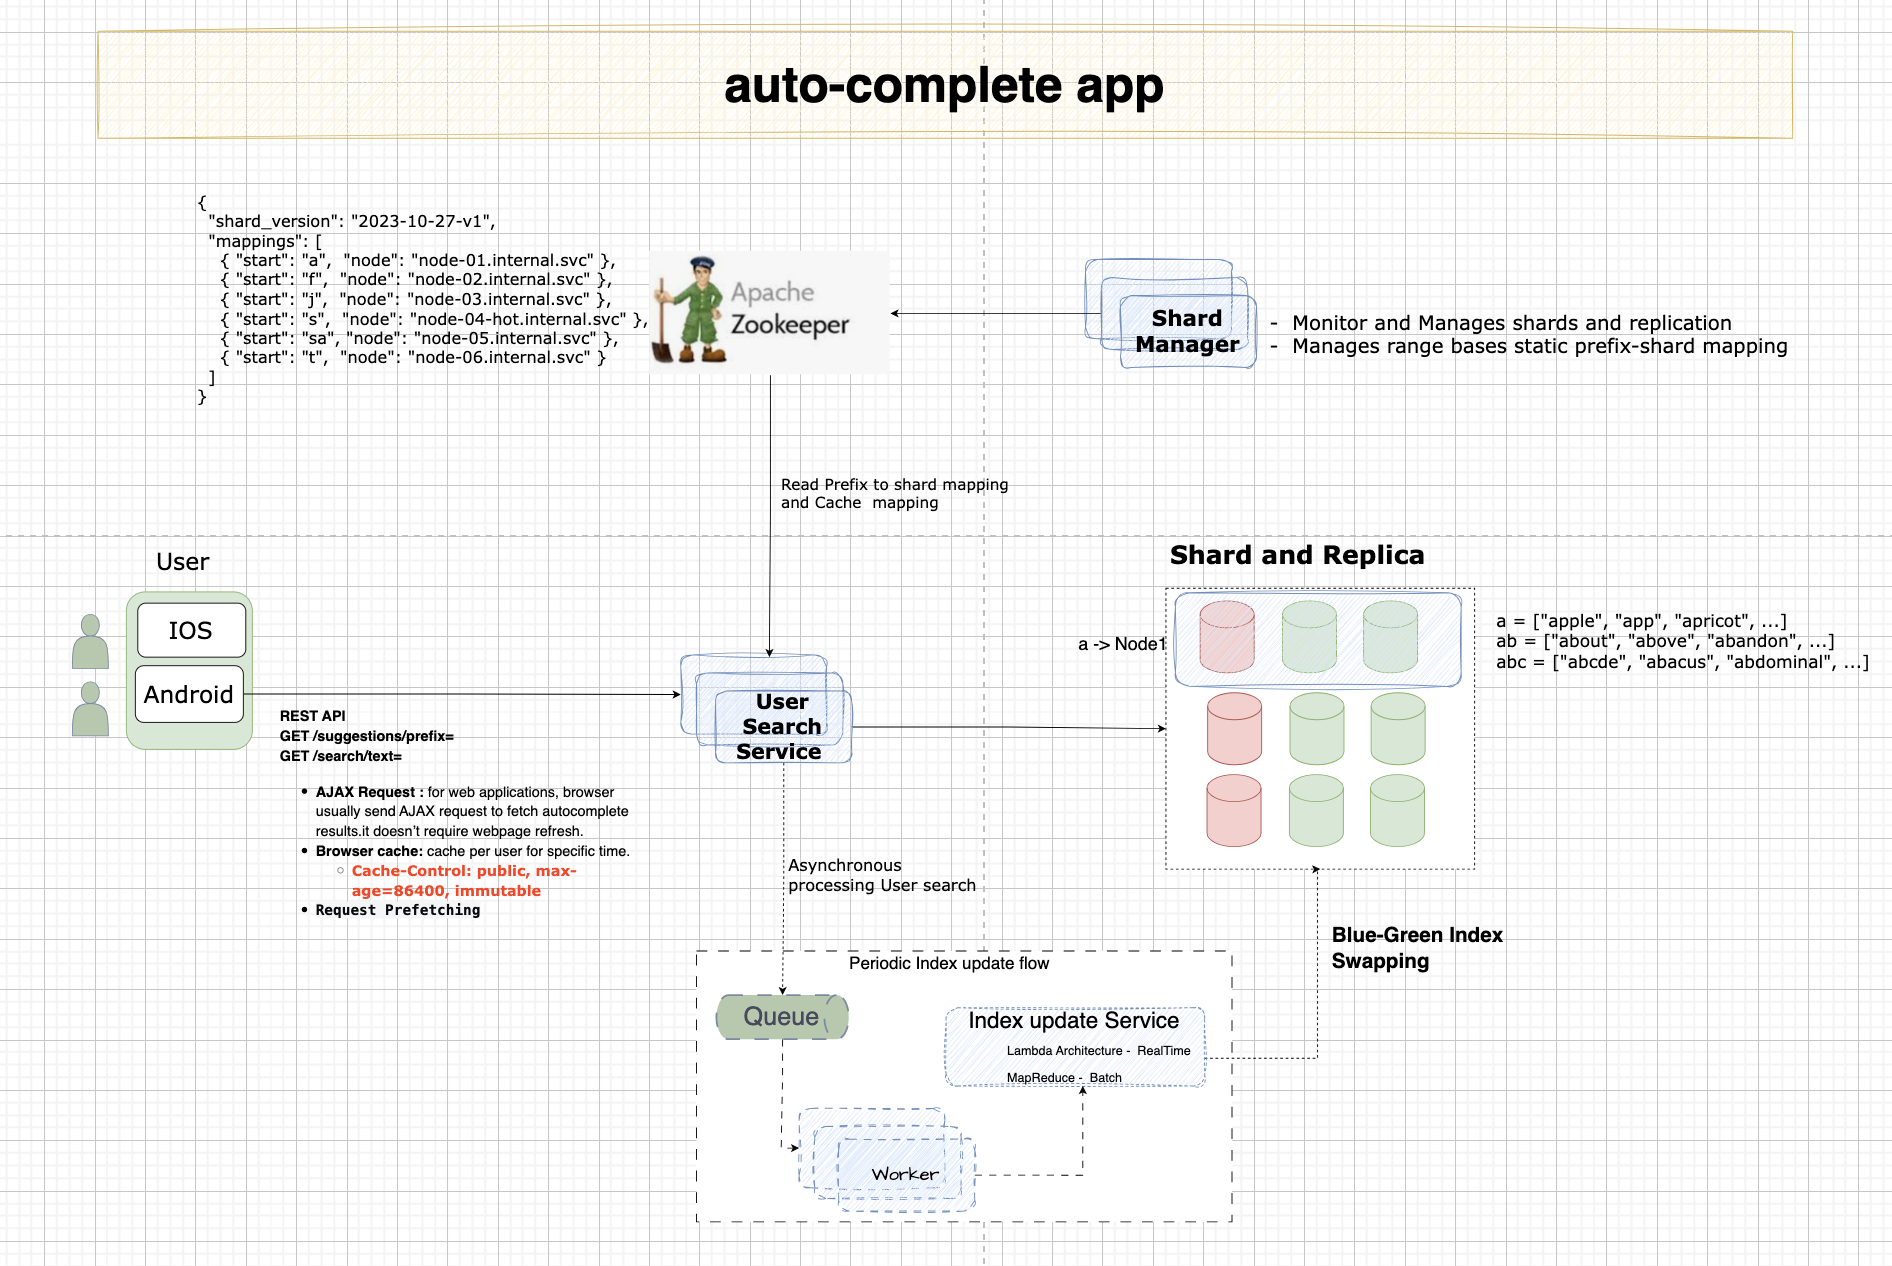
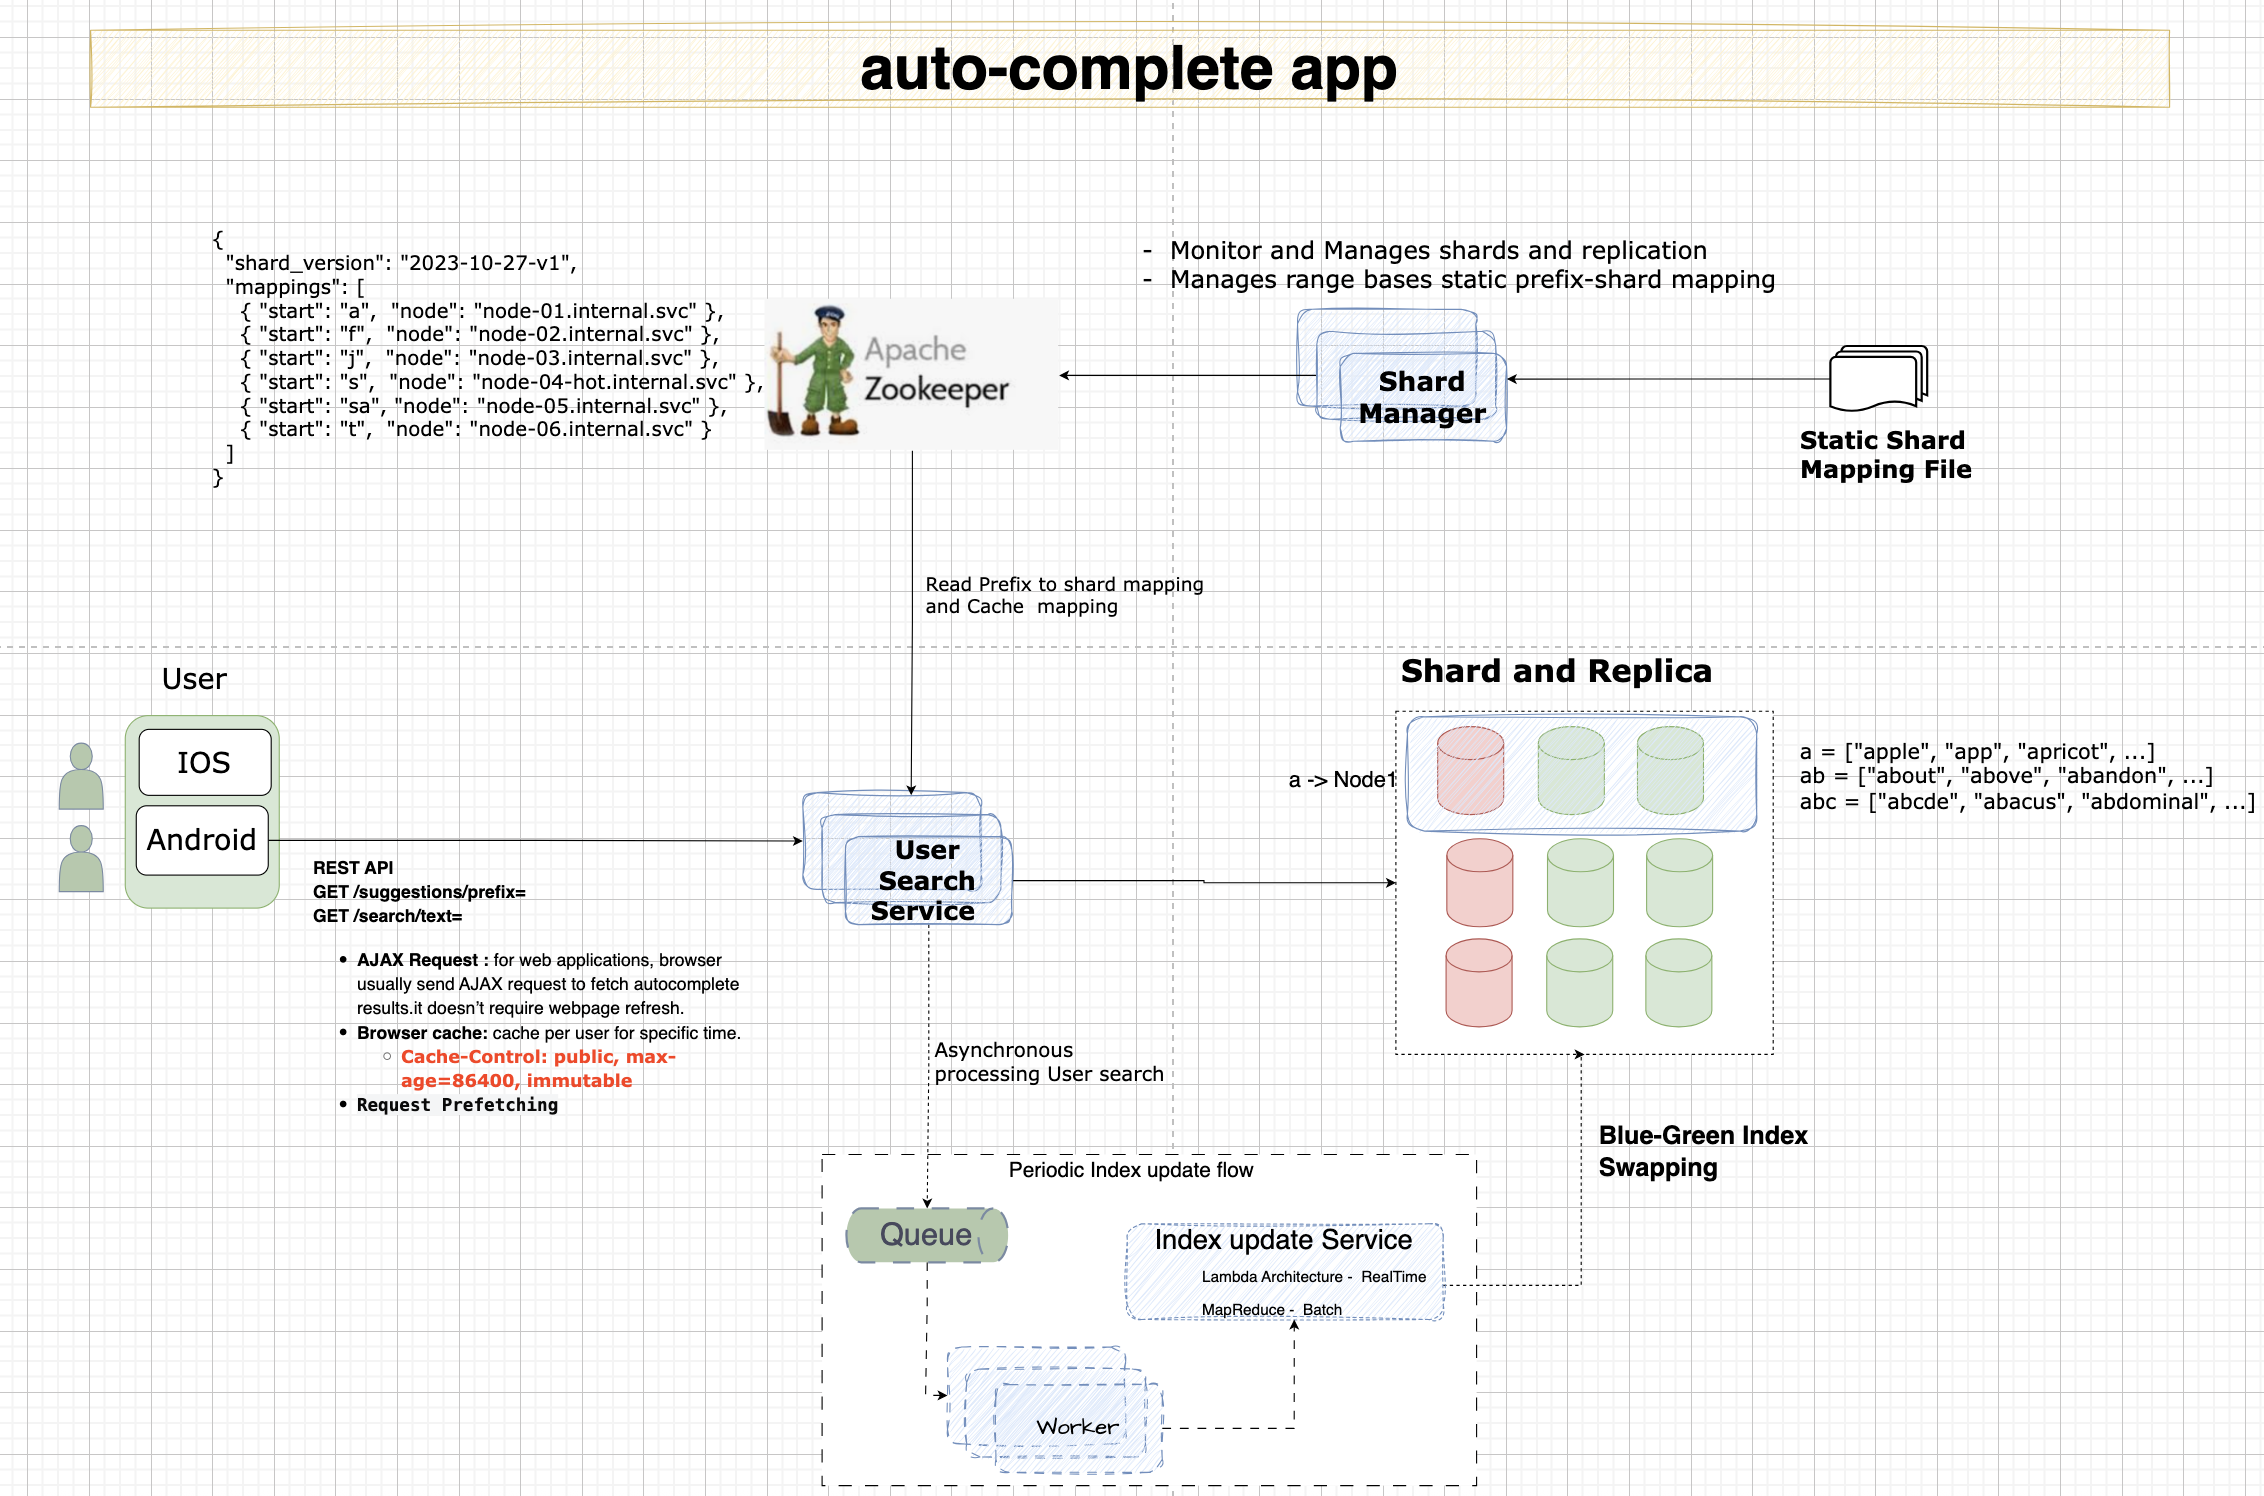
auto complete app

diff --git a/auto_complete_app/shard_manager.py b/auto_complete_app/shard_manager.py
@@ -26,6 +26,113 @@ class ShardConfig:
     mappings: List[ShardMapping]
 
 
+class ConfigurationClient:
+
+    def __init__(self):
+        self.zk : Optional[KazooClient] = None
+        self.shard_config : Optional[ShardConfig] = None
+        self.__initialise()
+
+    def __initialise(self):
+        """Connect to Zookeeper"""
+        try:
+            self.zk = KazooClient(hosts=config.ZOOKEEPER_HOSTS)
+            self.zk.start(timeout=10)
+            log.info("Connected to Zookeeper")
+            
+            # Ensure path exists
+            self.zk.ensure_path(config.SHARD_CONFIG_PATH)
+            
+        except Exception as e:
+            log.error(f"Failed to connect to Zookeeper: {e}")
+            raise RuntimeError(f"Failed to connect to Zookeeper: {e}")
+        self.refresh_shard_config()
+
+    def close(self):
+        """Close Zookeeper connection"""
+        if self.zk:
+            self.zk.stop()
+            self.zk.close()
+
+    def get_shard_config(self) -> Optional[ShardConfig]:
+        return self.shard_config
+
+    def refresh_shard_config(self):
+        """Update shard configuration version"""
+        try:
+            if not self.shard_config:
+                print("No existing configuration found")
+                data, _ = self.zk.get(config.SHARD_CONFIG_PATH)
+                config_json = json.loads(data.decode('utf-8'))
+                mappings = [ShardMapping(m['prefix'], m['node'], m['data_base'], m['collection']) for m in config_json['mappings']]
+                self.shard_config = ShardConfig(
+                    shard_version=config_json['shard_version'],
+                    mappings=mappings
+                )
+
+            else:
+                data, _ = self.zk.get(config.SHARD_CONFIG_PATH)
+                config_json = json.loads(data.decode('utf-8'))
+                mappings = [ShardMapping(m['prefix'], m['node'], m['data_base'], m['collection']) for m in config_json['mappings']]
+                current_shard_config = ShardConfig(
+                    shard_version=config_json['shard_version'],
+                    mappings=mappings
+                )
+                if current_shard_config and current_shard_config.shard_version > self.shard_config.shard_version:
+                    self.shard_config = current_shard_config
+                
+        except Exception as e:
+            log.error(f"Error updating config: {e}")
+            print(f"✗ Error: {e}")
+
+    def watch_shard_config(self, callback):
+        """Watch for shard configuration changes"""
+        @self.zk.DataWatch(config.SHARD_CONFIG_PATH)
+        def watch_config(data, stat):
+            if data:
+                try:
+                    config_json = json.loads(data.decode('utf-8'))
+                    mappings = [ShardMapping(m['prefix'], m['node'], m['data_base'], m['collection']) for m in config_json['mappings']]
+                    config = ShardConfig(
+                        shard_version=config_json['shard_version'],
+                        mappings=mappings
+                    )
+                    callback(config)
+                    log.info(f"Shard config updated: {config.shard_version}")
+                except Exception as e:
+                    log.error(f"Error processing config update: {e}")
+
+    def find_shard_for_prefix(self, query: str) -> dict[str, str]:
+        """Find the appropriate shard for a given query prefix"""
+        try:
+            search_term = query.lower()
+            
+            # 1. Use Binary Search (bisect_right) to find the insertion point
+            # This finds the first element > search_term
+            self.shard_config.mappings.sort(key=lambda m: m.prefix.lower())
+            shard_map = [{"prefix": m.prefix.lower(), "node": m.node , "data_base": m.data_base, "collection": m.collection} for m in self.shard_config.mappings] 
+            low = 0
+            high = len(shard_map)
+            
+            while low < high:
+                mid = (low + high) // 2
+                if search_term < shard_map[mid]["prefix"]:
+                    high = mid
+                else:
+                    low = mid + 1
+                    
+            # 2. The target is the element right before the insertion point
+            # If index is 0, the prefix comes before 'a' (handle as error or default)
+            target_index = low - 1
+            
+            if target_index < 0:
+                raise RuntimeError(f"No shard found for prefix '{query}'")
+
+            return shard_map[target_index]
+        except Exception as e:
+            log.error(f"Error finding shard for prefix '{query}': {e}")
+            raise RuntimeError(f"Error finding shard for prefix '{query}': {e}")
+
 class ShardManager:
     """Manages shard configuration in Zookeeper"""
     
@@ -74,22 +181,7 @@ class ShardManager:
             log.error(f"Error saving shard config: {e}")
             return False
     
-    def watch_shard_config(self, callback):
-        """Watch for shard configuration changes"""
-        @self.zk.DataWatch(config.SHARD_CONFIG_PATH)
-        def watch_config(data, stat):
-            if data:
-                try:
-                    config_json = json.loads(data.decode('utf-8'))
-                    mappings = [ShardMapping(m['prefix'], m['node'], m['data_base'], m['collection']) for m in config_json['mappings']]
-                    config = ShardConfig(
-                        shard_version=config_json['shard_version'],
-                        mappings=mappings
-                    )
-                    callback(config)
-                    log.info(f"Shard config updated: {config.shard_version}")
-                except Exception as e:
-                    log.error(f"Error processing config update: {e}")
+
     
     def close(self):
         """Close Zookeeper connection"""
@@ -177,36 +269,7 @@ class ShardManager:
             log.error(f"Error loading shard configuration from file: {e}")
             raise RuntimeError(f"Error loading shard configuration from file: {e}")
 
-    def find_shard_for_prefix(self, query: str) -> dict[str, str]:
-        """Find the appropriate shard for a given query prefix"""
-        try:
-            search_term = query.lower()
-            
-            # 1. Use Binary Search (bisect_right) to find the insertion point
-            # This finds the first element > search_term
-            self.shard_config.mappings.sort(key=lambda m: m.prefix.lower())
-            shard_map = [{"prefix": m.prefix.lower(), "node": m.node , "data_base": m.data_base, "collection": m.collection} for m in self.shard_config.mappings] 
-            low = 0
-            high = len(shard_map)
-            
-            while low < high:
-                mid = (low + high) // 2
-                if search_term < shard_map[mid]["prefix"]:
-                    high = mid
-                else:
-                    low = mid + 1
-                    
-            # 2. The target is the element right before the insertion point
-            # If index is 0, the prefix comes before 'a' (handle as error or default)
-            target_index = low - 1
-            
-            if target_index < 0:
-                raise RuntimeError(f"No shard found for prefix '{query}'")
 
-            return shard_map[target_index]
-        except Exception as e:
-            log.error(f"Error finding shard for prefix '{query}': {e}")
-            raise RuntimeError(f"Error finding shard for prefix '{query}': {e}")
 
 if __name__ == "__main__":
     shardManager = ShardManager()

diff --git a/auto_complete_app/auto_complete_app.py b/auto_complete_app/auto_complete_app.py
@@ -10,7 +10,7 @@ from fastapi.responses import HTMLResponse, JSONResponse
 from pydantic import BaseModel
 import uvicorn
 from commons import logger
-from shard_manager import ShardManager, ShardConfig
+from shard_manager import ConfigurationClient, ShardConfig
 from database_client import MongoShardClient
 from contextlib import asynccontextmanager
 
@@ -30,7 +30,7 @@ class UserSearchService:
     """Stateless service for handling user search requests"""
     
     def __init__(self):
-        self.shard_manager = ShardManager()
+        self.configuration_client = ConfigurationClient()
         self.current_config: Optional[ShardConfig] = None
         self.shard_clients: Dict[str, MongoShardClient] = {}
         self.config_lock = threading.RLock()
@@ -39,13 +39,13 @@ class UserSearchService:
         self.__refresh_config()
         
         # Watch for configuration changes
-        self.shard_manager.watch_shard_config(self.on_config_change)
+        self.configuration_client.watch_shard_config(self.on_config_change)
     
     def __refresh_config(self):
         """Refresh shard configuration from Zookeeper"""
         try:
             with self.config_lock:
-                config_data = self.shard_manager.get_shard_config()
+                config_data = self.configuration_client.get_shard_config()
                 if config_data:
                     self.current_config = config_data
                     self.__update_shard_clients()
@@ -99,7 +99,7 @@ class UserSearchService:
         try:
             if not self.current_config or not query:
                 raise ValueError("Invalid configuration or query")
-            shard_info = self.shard_manager.find_shard_for_prefix(query)
+            shard_info = self.configuration_client.find_shard_for_prefix(query)
             if shard_info:
                 prefix = shard_info["prefix"]
                 if prefix not in self.shard_clients:
@@ -160,8 +160,8 @@ async def lifespan(app: FastAPI):
     if search_service:
         # Close any resources if needed
         try:
-            if hasattr(search_service, 'shard_manager'):
-                search_service.shard_manager.close()
+            if hasattr(search_service, 'configuration_client'):
+                search_service.configuration_client.close()
             log.info("Auto-complete service shut down successfully")
         except Exception as e:
             log.error(f"Error during shutdown: {e}")
@@ -369,8 +369,8 @@ if __name__ == "__main__":
     finally:
         if search_service:
             try:
-                if hasattr(search_service, 'shard_manager'):
-                    search_service.shard_manager.close()
+                if hasattr(search_service, 'configuration_client'):
+                    search_service.configuration_client.close()
                 log.info("Auto-complete service shut down successfully")
             except Exception as e:
                 log.error(f"Error during shutdown: {e}")

diff --git a/auto_complete_app/database_client.py b/auto_complete_app/database_client.py
@@ -4,7 +4,7 @@ sys.path.append(os.path.dirname(os.path.abspath(__file__)))
 
 from pymongo import MongoClient
 from commons import logger
-from shard_manager import ShardManager
+from shard_manager import ConfigurationClient, ShardManager
 
 log = logger.setup_logger(__name__)
 
@@ -366,10 +366,10 @@ def insert_sample_data():
                 ]
             }
         ]
-        shard_manager = ShardManager()
+        configuration_clinet = ConfigurationClient()
         
         for doc in sample_data:
-            shard_info = shard_manager.find_shard_for_prefix(str(doc["prefix"]))
+            shard_info = configuration_clinet.find_shard_for_prefix(str(doc["prefix"]))
             
             node_url = shard_info["node"]
 

diff --git a/auto_complete_app/ReadMe.md b/auto_complete_app/ReadMe.md
@@ -184,9 +184,23 @@ Implementation focus on search part. Index building part is similar to recent se
 
 ![auto_complete_achitechture](auto_complete_achitechture.png)
 
-
-
-# Run Application
+## Project Structure	
+-   **shard_manager.py**	
+    -  **shard_config.json** : static mapping of prefix ranges to nodes
+    -  `Zookeeper` based shard configuration management
+    -  [load config from static file](shard_manager.py#L214-L270)
+    -  [save config to Zookeeper](shard_manager.py#L162-L182)
+    -  [binary search based - find shard for prefix](shard_manager.py#L105-L134)
+-   **auto_complete_app.py**	
+    -  application server to handle search requests
+    -  [Cache-Control](auto_complete_app.py#L354) 
+    -  [find shard for prefix](auto_complete_app.py#L97) 
+    -  [fetch suggestions for prefix](auto_complete_app.py#L117) 
+-   **config.py**
+    -  configuration parameters
+-   **database_client.py**	
+    -  mongodb client to fetch suggestions from database
+    - load sample data into database
 
 # Setup Instructions
 software requirements:
